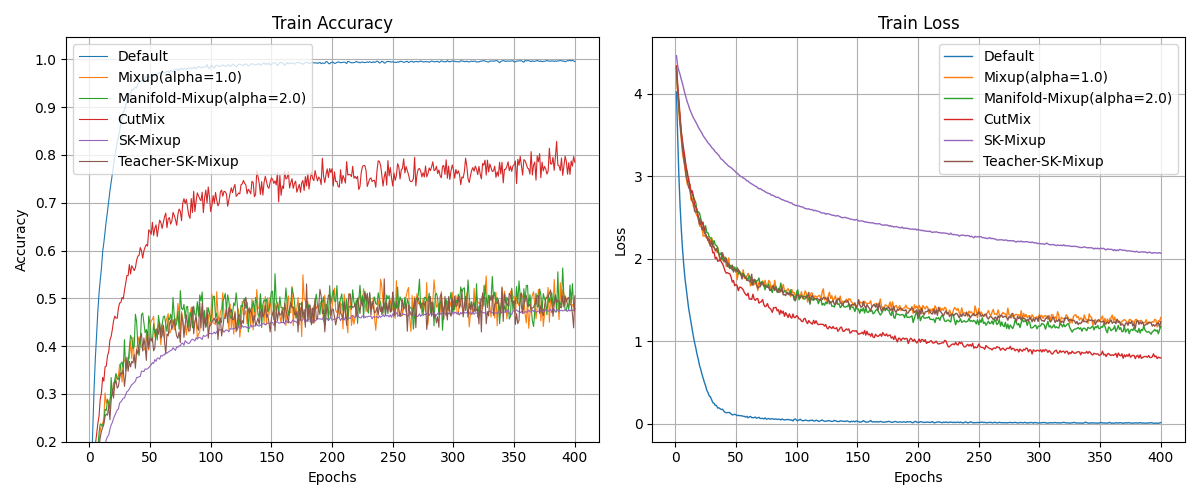
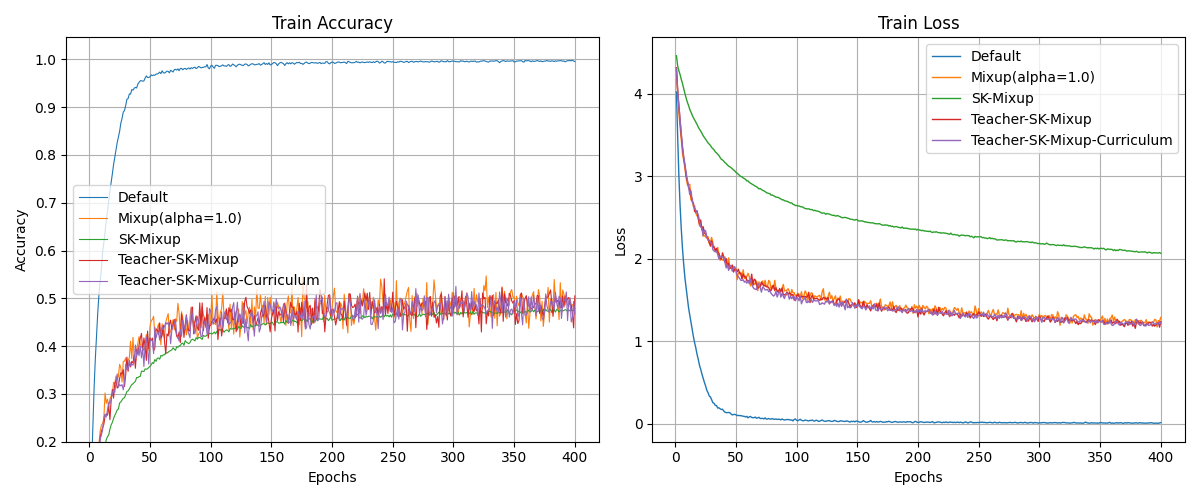
aaa

diff --git a/src/utils.py b/src/utils.py
@@ -162,7 +162,7 @@ def train(model, train_loader, criterion, optimizer, device, augment, num_classe
     train_acc  = 0.0
     history = {"alpha": []}
 
-    skmixup = KernelMixup(alpha=1.0, mode="batch", num_classes=num_classes, warping="beta_cdf", tau_max=1.0, tau_std=0.25, lookup_size=4096)   # or "inverse_beta_cdf"
+    skmixup = KernelMixup(alpha=1.0, mode="batch", num_classes=num_classes, warping="inverse_beta_cdf", tau_max=1.0, tau_std=0.25, lookup_size=4096)   # or "inverse_beta_cdf"
     augmix_transform = AugMixTransform(severity=3, width=3, depth=-1, alpha=1.)
 
     batch_idx = 0

diff --git a/result.py b/result.py
@@ -27,16 +27,17 @@ def main():
         # "Mixup(alpha=5.0)",
         # "Manifold-Mixup(alpha=0.5)",
         # "Manifold-Mixup(alpha=1.0)",
-        "Manifold-Mixup",
+        # "Manifold-Mixup",
         # "Manifold-Mixup(alpha=5.0)",
         # "Mixup-Curriculum",
 
-        "CutMix",
+        # "CutMix",
         # "AugMix",
 
         # "Ent-Mixup",
         "SK-Mixup",
-        "Teacher-SK-Mixup"
+        "Teacher-SK-Mixup",
+        "Teacher-SK-Mixup-Curriculum",
 
         # "FOMA",
         # "FOMA_latent_random",

diff --git a/train.py b/train.py
@@ -26,10 +26,10 @@ augmentations = [
     # "AugMix",
 
     # "Teacher-SK-Mixup",
-    "Teacher-SK-Mixup-Curriculum",
+    # "Teacher-SK-Mixup-Curriculum",
 
     # "Manifold-SK-Mixup",
-    # "SK-Mixup",
+    "SK-Mixup",
     # "Ent-Mixup",
 
     # "Mixup",
